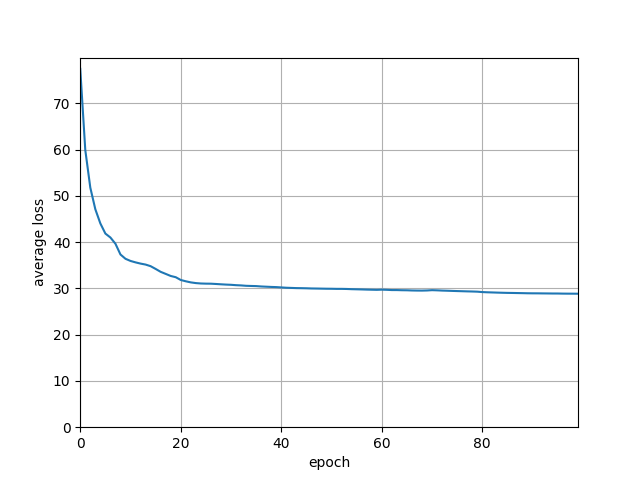
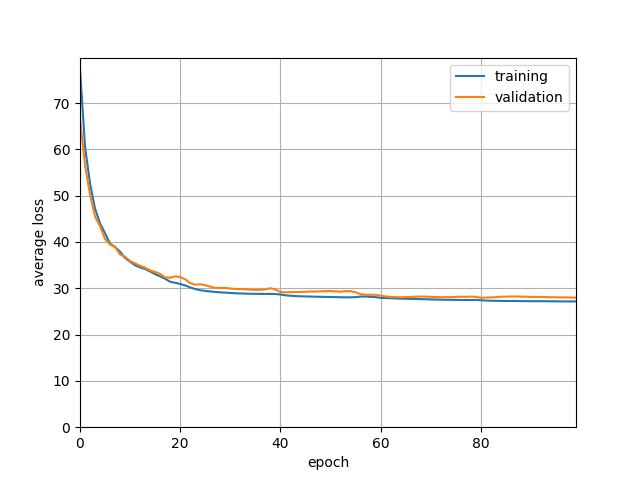
can now plot both training and validation loss curves.

diff --git a/HW4_Deep_Learning/python/run_q5.py b/HW4_Deep_Learning/python/run_q5.py
@@ -46,7 +46,10 @@ for k in list(params.keys()):
         params["m_" + name] = np.zeros(params[k].shape)
 
 # should look like your previous training loops
-losses = []
+# losses = []
+
+train_loss = []
+valid_loss = []
 
 for itr in range(max_iters):
     total_loss = 0
@@ -89,7 +92,18 @@ for itr in range(max_iters):
                 params[name] += params["m_" + name]
     
     # append loss
-    losses.append(total_loss/train_x.shape[0])
+    # losses.append(total_loss/train_x.shape[0])
+
+    # append training loss
+    train_loss.append(total_loss/train_x.shape[0])
+
+    # validation loss
+    h1 = forward(valid_x, params, "layer1", relu)
+    h2 = forward(h1, params, "hidden1", relu)
+    h3 = forward(h2, params, "hidden2", relu)
+    probs = forward(h3, params, "output", sigmoid)
+    valid_loss.append(np.sum((probs - valid_x)**2)/valid_x.shape[0])
+
 
     if itr % 2 == 0:
         print("itr: {:02d} \t loss: {:.2f}".format(itr,total_loss))
@@ -97,11 +111,15 @@ for itr in range(max_iters):
         learning_rate *= 0.9
 
 # plot loss curve
-plt.plot(range(len(losses)), losses)
+# plt.plot(range(len(losses)), losses)
+plt.plot(range(len(train_loss)), train_loss, label="training")
+plt.plot(range(len(valid_loss)), valid_loss, label="validation")
 plt.xlabel("epoch")
 plt.ylabel("average loss")
-plt.xlim(0, len(losses)-1)
+# plt.xlim(0, len(losses)-1)
+plt.xlim(0, len(train_loss)-1)
 plt.ylim(0, None)
+plt.legend()
 plt.grid()
 plt.show()
 
